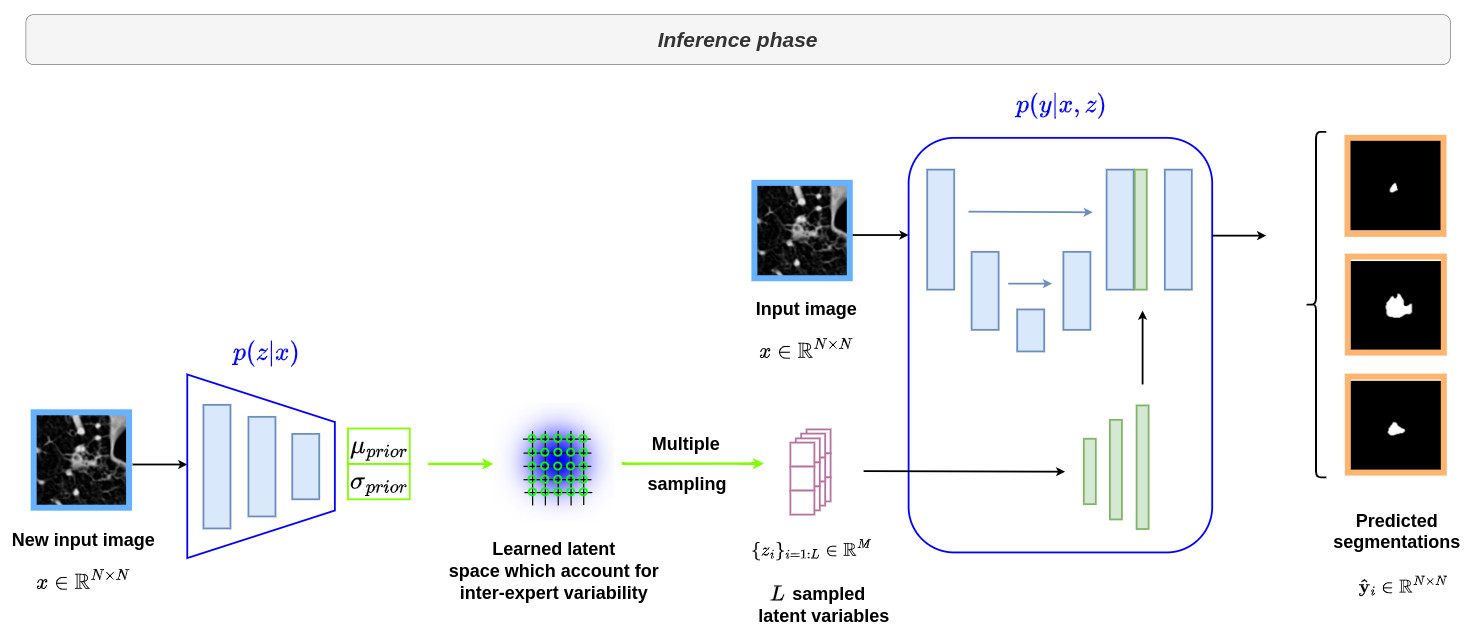
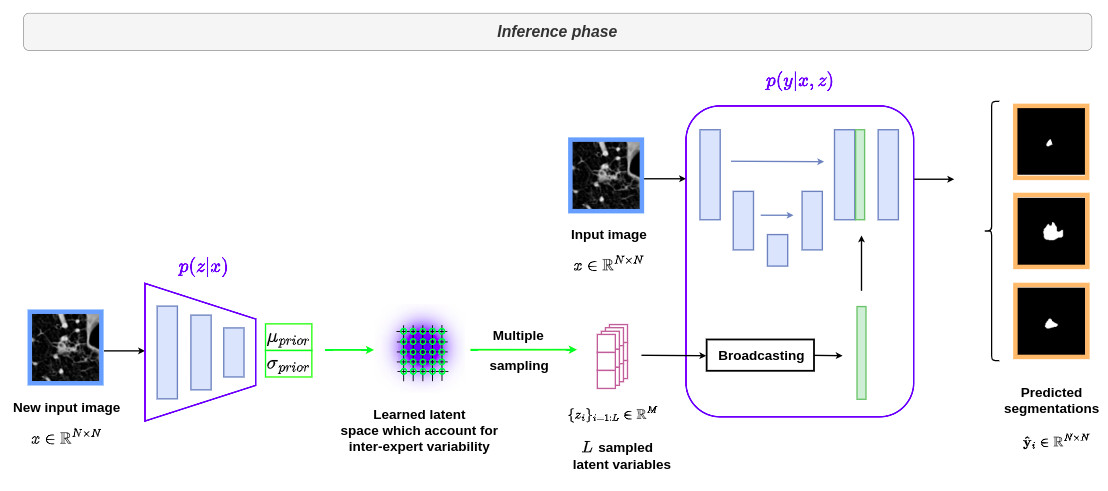
fix the decoder / broadcast mistake !

diff --git a/collections/_posts/2022-10-11-ProbabilisticUNet.md b/collections/_posts/2022-10-11-ProbabilisticUNet.md
@@ -27,7 +27,7 @@ pdf: "https://proceedings.neurips.cc/paper/2018/file/473447ac58e1cd7e96172575f48
 
 * The architecture is based on the ***conditional VAE*** whose details are provided in the following [tutorial](https://creatis-myriad.github.io/tutorials/2022-09-12-tutorial-cvae.html).
 * The innovation comes from the use of a U-Net architecture to model the distribution $$p(y \vert x,z)$$.
-* The latent vector $$z$$ is first passed to a decoder to produce a $$N$$-channel feature map with the same spatial dimensions as the segmentation map. This feature map is then concatenated with the last activation map of a U-Net before being convolved by a last layer to produce the final segmentation map with the desired number of classes.
+* The latent vector $$z$$ is first broadcast to produce a $$N$$-channel feature map with the same spatial dimensions as the segmentation map. This feature map is then concatenated with the last activation map of a U-Net before being convolved by a last layer to produce the final segmentation map with the desired number of classes.
 
 The image below provides an overview of the architecture deployed during training. The distributions $$p(z \vert x,y)$$, $$p(z \vert x)$$ and $$p(y \vert x,z)$$ displayed in blue are modeled by three distinct neural networks.
 
